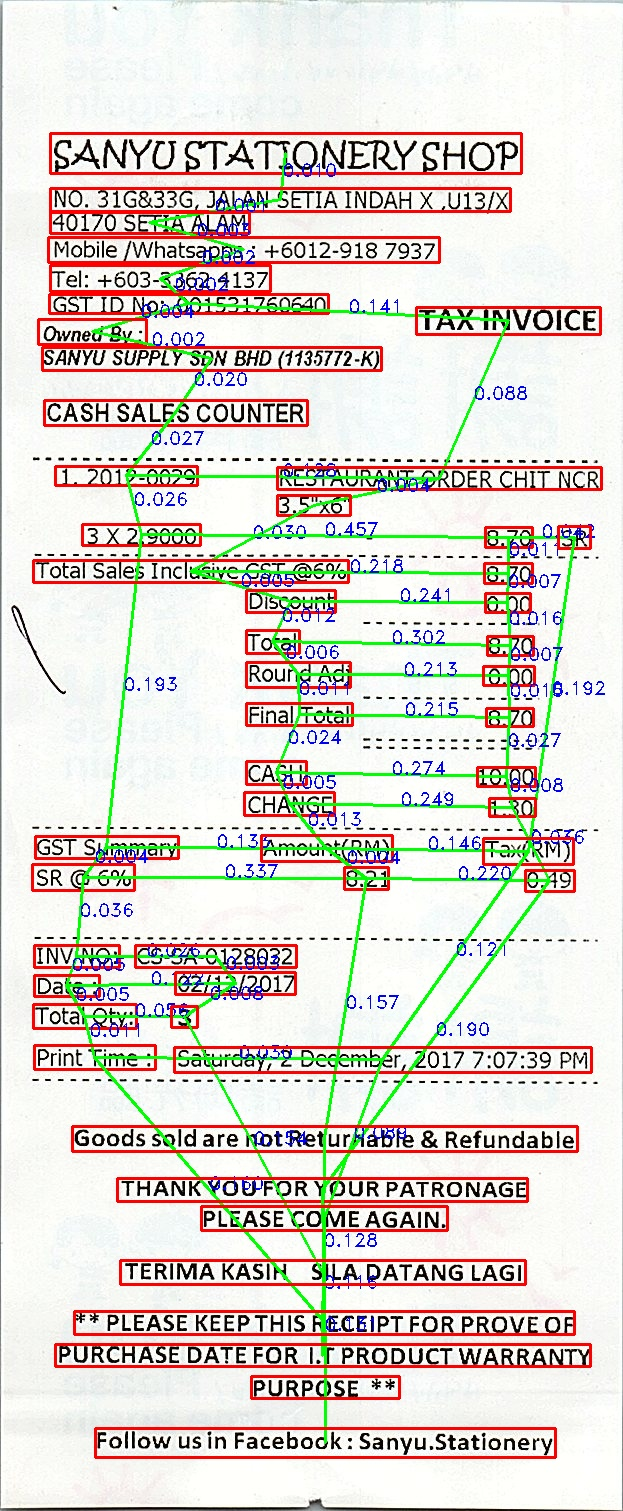
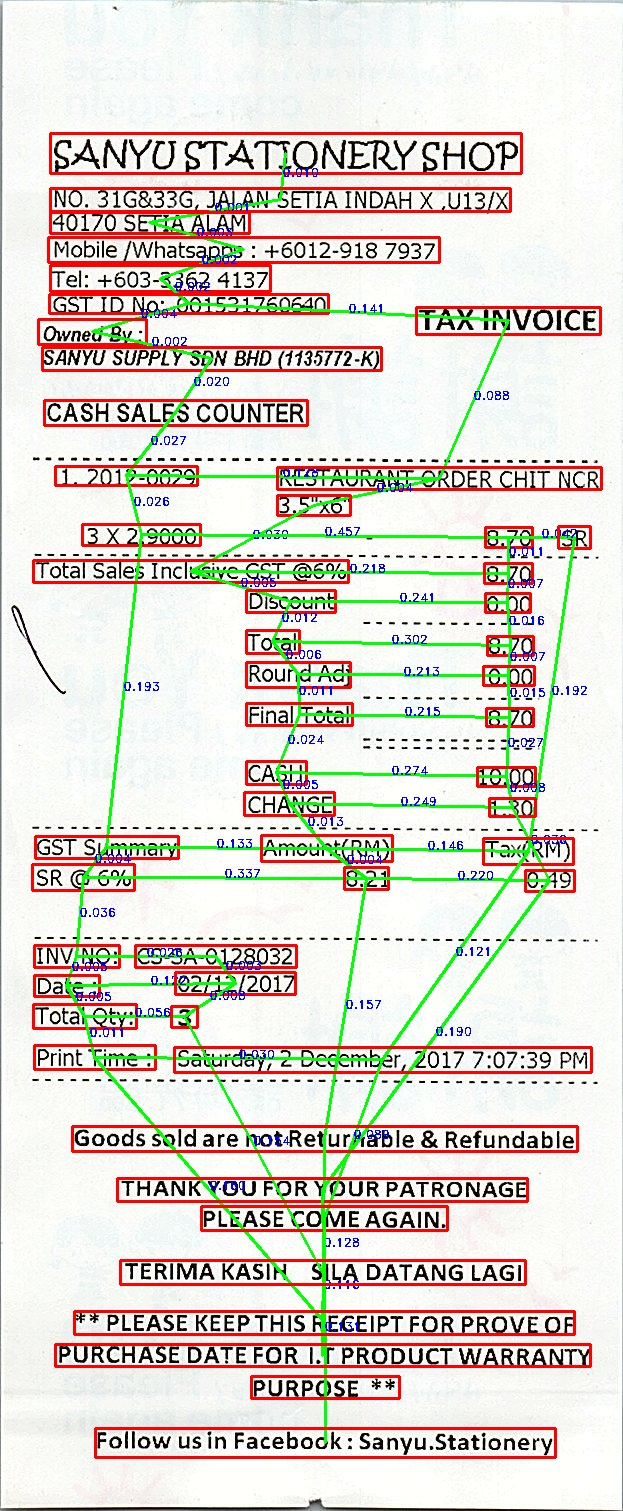
updates

diff --git a/src/pipeline/testing_ChebConv.py b/src/pipeline/testing_ChebConv.py
@@ -21,7 +21,12 @@ data_path = "../../data/processed/" + "data2.dataset"
 #data_path = "../../data/processed/" + "data_withtexts.dataset"
 data = torch.load(data_path)
 
-print(data.y[data.train_mask])
+print(f'training nodes: {data.y[data.train_mask].shape}')
+print(f'validation nodes: {data.y[data.val_mask].shape}')
+print(f'testing nodes: {data.y[data.test_mask].shape}')
+
+
+
 print(data.y.unique())
 
 print(data.y.shape)
@@ -43,10 +48,12 @@ parser = argparse.ArgumentParser()
 
 parser.add_argument('--model', type=str, default ='ChebConv',
                     help = 'GCN or ChebConv model')
-parser.add_argument('--epochs', type=int, default=500,
+parser.add_argument('--epochs', type=int, default=1000,
                     help='Number of epochs to train.')
 parser.add_argument('--lr', type=float, default=0.01,
                     help='Initial learning rate.')
+parser.add_argument('--verbose', type=int, default=0,
+                    help='print details of the model')
 parser.add_argument('--weight_decay', type=float, default=5e-4,
                     help='Weight decay (L2 loss on parameters).')
 parser.add_argument('--dropout', type=float, default=0.5,
@@ -123,8 +130,8 @@ def train():
     #FIX WEIGHTS
     weights = torch.FloatTensor(class_weights)
     
-    #print(weights)
-    #weights = torch.tensor([3.3419, 9.3718, 8.9813, 8.9526, 0.1905,8.1577])
+
+    #weights = torch.tensor([8.1577,3.3419, 9.3718, 8.9813, 8.9526, 0.1905])
     
     loss = F.nll_loss(model()[data.train_mask], data.y[data.train_mask]-1, weight=weights)
     loss.backward()
@@ -156,27 +163,25 @@ def test():
 
 
 
-
-        r"printing predicted classes and number of elements for preds"
-        print('pred')
-        unique_elements, counts_elements = np.unique(pred, return_counts=True)
-        print(np.asarray((unique_elements, counts_elements)))
-
-
-        r"printing predicted classes and number of elements for actual"
-        print('actual')
-        unique_elements, counts_elements = np.unique((data.y[mask]-1), return_counts=True)
-        print(np.asarray((unique_elements, counts_elements)))
-
-        nb_classes = 6
+        if args.verbose == 1:
+            r"printing predicted classes and number of elements for preds"
+            print('pred')
+            unique_elements, counts_elements = np.unique(pred, return_counts=True)
+            print(np.asarray((unique_elements, counts_elements)))
 
 
-        conf_mat=confusion_matrix((data.y[mask]-1).numpy(), pred.numpy())
-      
+            r"printing predicted classes and number of elements for actual"
+            print('actual')
+            unique_elements, counts_elements = np.unique((data.y[mask]-1), return_counts=True)
+            print(np.asarray((unique_elements, counts_elements)))
 
-    # Per-class accuracy
-        class_accuracy=100*conf_mat.diagonal()/conf_mat.sum(1)
-        print(class_accuracy)
+
+
+            conf_mat=confusion_matrix((data.y[mask]-1).numpy(), pred.numpy())
+        # Per-class accuracy
+            print(f'confusion_matrix   is   {conf_mat}')
+            class_accuracy=100*conf_mat.diagonal()/conf_mat.sum(1)
+            print(class_accuracy)
 
        # print(acc)
         accs.append(acc)

diff --git a/src/pipeline/tess_ocr.py b/src/pipeline/tess_ocr.py
@@ -9,7 +9,13 @@ import pandas as pd
 
 image = "../../data/raw/img/339.jpg"
 #image = "/Users/udipbohara/Desktop/Datascience_projects/info_extraction_receipts/src/pipeline/test_custom.jpg"
+
+
+output = "../../figures/tess_339.jpg"
+
+
 img = cv2.imread(image)
+
 
 
 custom_config = r'--oem 3 --psm 6'
@@ -42,9 +48,11 @@ for i in range(n_boxes):
         (x, y, w, h) = (d['left'][i], d['top'][i], d['width'][i], d['height'][i])
         #print(x,y,w,h)
         text = d['text'][i]
-        img = cv2.rectangle(img, (x, y), (x + w, y + h), (0, 0, 255), 2)
+      
+        img = cv2.rectangle(img, (x, y), (x + w, y + h), (255, 0, 0), 1)
         img = cv2.putText(img, text, (x, y - 1),
-                        cv2.FONT_HERSHEY_DUPLEX, 0.4, (0, 0, 255), 1)
+                cv2.FONT_HERSHEY_DUPLEX, 0.6, (0, 0, 255), 1)
+
 
         img_height, img_width =  img.shape[0], img.shape[1]
         
@@ -64,8 +72,10 @@ df = df[df.Object != " "]
 
 print(df)
 
-# df.to_csv('test550_scratchpart2' + '.csv' ,index = False)
-# cv2.imwrite('test550_scratchpart2' + '.jpg', img)
+#df.to_csv('test550_scratchpart2' + '.csv' ,index = False)
+cv2.imwrite('test550_scratchpart2' + '.jpg', img)
+
+cv2.imwrite(output, img)
 
 # df.to_csv('test_custom' + '.csv' ,index = False)
 # cv2.imwrite('test_custom' + '.jpg', img)

diff --git a/src/pipeline/make_data.py b/src/pipeline/make_data.py
@@ -82,11 +82,9 @@ def get_data():
         df = connect.relative_distance() 
         individual_data = from_networkx(G)
 
-        feature_cols = ['rd_b','line_number', 'rd_r', 'rd_t', 'rd_l',\
+        feature_cols = ['rd_b', 'rd_r', 'rd_t', 'rd_l','line_number',\
                 'n_upper', 'n_alpha', 'n_spaces', 'n_numeric','n_special']
-                
-        feature_cols = ['xmin', 'ymin', 'xmax', 'ymax','line_number','rd_b', 'rd_r', 'rd_t', 'rd_l',\
-                        'n_upper', 'n_alpha', 'n_spaces', 'n_numeric','n_special']
+
 
         features = torch.tensor(df[feature_cols].values.astype(np.float32))
 

diff --git a/src/pipeline/graph.py b/src/pipeline/graph.py
@@ -534,11 +534,11 @@ if __name__ == "__main__":
     # print(result)
     # print(df)
     #file = '525'
-    file = '012'
+    file = '339'
     connect = Grapher(file)
-    G,result, df = connect.graph_formation()#export_graph=True)
+    G,result, df = connect.graph_formation(export_graph=True)
     print(df)
-    df = connect.relative_distance()#export_document_graph = True)
+    df = connect.relative_distance(export_document_graph = True)
     print(df)
 
 

diff --git a/src/pipeline/visualize.py b/src/pipeline/visualize.py
@@ -66,8 +66,10 @@ def visualize_labels(img_name, save_img = False):
 
 
 if __name__ == "__main__":
-    visualize_labels('009', save_img = True)
-    visualize_textboxes('009', save_img = True)
-  
+    visualize_labels('619', save_img = True)
+    #visualize_textboxes('619', save_img = True)
+    visualize_labels('580', save_img = True)
+    visualize_labels('395', save_img = True)
+    #visualize_textboxes('580', save_img = True)  
 
     

diff --git a/README.md b/README.md
@@ -18,6 +18,14 @@ In order to be able to do this, here are the basic steps:
 - Optical character recognition (OCR) engine such as [Tesseract](https://tesseract-ocr.github.io) or [Google Vision](https://cloud.google.com/vision/docs/ocr).
 - Extract relevant/salient information in a digestable format such as json for storage/analytics.
 
+<p align="center">
+<img src="figures/figure_0.0.png" height=400> 
+</p>
+
+
+
+
+
 The main issue/concern with this approach is that invoices do not follow a universal pattern. 
 
 
@@ -26,14 +34,14 @@ The main issue/concern with this approach is that invoices do not follow a unive
 <img src="figures/figure_1.png"> 
 </p>
 
-__Figure 1__: _Different patterns of semi structured documents make it difficult to generalize a pattern for Information Extraction(IE)_
+__Figure 1__: _Different patterns of semi structured documents make it difficult to generalize an algorithm for Information Extraction(IE)_
 
 &ensp;&ensp;&ensp;&ensp;&ensp;&ensp;&ensp;&ensp;&ensp;&ensp; __Figure 1__: _Different patterns of semi structured documents make it difficult to generalize a pattern for Information Extraction(IE)_
 
 Due to the varied nature of invoices, it is difficult to have a general OCR script that recognizes each element of the dataset. 
 
 Solution:
-Graph Convolutional Networks (GCNs) provide a platform for recognizing different patterns associated with different invoices/semi-structured documents. This method can be used in __Transductive learning/semi-supervised learning__. This can be used in auto-labeling/classification of desired classes(in our case: company, address, invoice, date and total) by learning graph patterns. 
+Semi-Supervised Graph Convolutional Networks (GCNs) provide a platform for recognizing different patterns associated with different invoices/semi-structured documents. This method can be used in __Transductive learning/semi-supervised learning__. This can be used in auto-labeling/classification of desired classes(in our case: company, address, invoice, date and total) by learning graph patterns. 
 [An Invoice Reading System Using a Graph Convolutional Network](https://link.springer.com/chapter/10.1007/978-3-030-21074-8_12) provides for the conceptual background for this project. Top level concepts are derived from the paper and I would like to thank the authors for their contribution. 
 
 
@@ -122,14 +130,6 @@ __Consider avoiding Chebyshev to avoid overfitting.__
 __ChebNets and GCNs are very similar, but their largest difference is in their choices for value K in eqn. 1. In a GCN, the layer wise convolution is limited to K = 1__
 
 
-<p align="left">
-<img src="figures/figure_3.png">
-</p>
-
-<p align="center">
-<i><b>Abbreviated Steps of GCN:</b> https://github.com/tkipf/gcn</i>
-</p>
-
 # Steps of the Project:
 - Collect raw data of invoices (raw images)
 - Annonate/label all the images with relevant labels
@@ -192,6 +192,7 @@ The graph modeling process includes the following steps:
         - Repeat steps from 2.1 to 2.3 similarly for retrieving nearest neighbour words in vertical direction by taking horizontal projection, calculating RD_t and RD_b and choosing words having higher left co-ordinate incase of ambiguity
         - Draw edges between word and its 4 nearest neighbours if they are available.
 
+The nodes represet each word/object and edges represent the connection with other words based on the above parameters.
 _This ensures that words are read from top left corner of the image first, 
 going line by line from left to right and at last the final bottom right word of the page is read._
 
@@ -201,6 +202,12 @@ going line by line from left to right and at last the final bottom right word of
 <img src="figures/figure_4.png" width = 1000>
 </p>
 
+
+These set of rules are scalable and work for more complex structures:
+
+<p align="left">
+<img src="figures/figure_7.png" width = 1000>
+</p>
 
 ### 4) Features Engineering
 Node features consisted of the following:
@@ -217,9 +224,12 @@ The train, validation and test sets included:
 
 - Due to the imbalanced dataset, class weights were added to ensure proper learning of weights during backpropagation of the loss. 
 - The negative log likelihood loss [NLLLoss function](https://pytorch.org/docs/master/generated/torch.nn.NLLLoss.html) was used with the following weights:
-```python
+```
 {'company': 8.1577, 'address':3.3419, 'invoice':9.3718, 'date':8.9813, 'total':8.9526, 'undefined':0.1905]
 ```
+
+ 3 hidden GCN layers were stacked, the first layer learns 16 different filters (16 different graph connection patterns), and the second layer learn 32 filters, learning to recognize 32 combinations of the 16 patterns learned in layer 1. This hierarchical compositionality property, also found in CNN’s, gives the model the power to generalize to unseen layouts.
+
 
 Two differnt Graph Convolutional Models were used. Graph Convolutional Network and  [Chebyshev Convolutional Network](https://arxiv.org/abs/1606.09375)
 The kernel equals the sum of all Chebyshev polynomial kernels applied to the diagonal matrix of scaled Laplacian eigenvalues for each order of k up to K-1.
@@ -228,24 +238,70 @@ First order simply means that the metric used to determine the similarity betwee
 
 Third order of polynomials were used.
 
-
-
 __ChebNets and GCNs are very similar, but their largest difference is in their choices for value K in eqn. 1. In a GCN, the layer wise convolution is limited to K = 1__
 
 
 
+All the graphs were combined to form an unconnected adjacency matrix that consisted of 33626 nodes.<br>
+training nodes: 26947, valdiation nodes: 3221, testing nodes: 3458
 
-| Company  | Address | Invoice | Date | Total | Undefined |
-| ------------- | ------------- | ------------- | ------------- | ------------- | ------------- |
-| Content Cell  | Content Cell  | Content Cell  | Content Cell  | Content Cell  | Content Cell  |
-| Content Cell  | Content Cell  | Content Cell  | Content Cell  | Content Cell  | Content Cell  |
+<p align="left">
+<img src="figures/figure_3.png">
+</p>
+
+<p align="center">
+<i><b>Abbreviated Steps of GCN:</b> https://github.com/tkipf/gcn</i>
+</p>
 
 
+
+
+The model was trained with the following parameters:
+```
+learning rate : 0.01
+L2 regularization : 5e-10
+hidden layers : 4 
+early stopping : 50 epochs. #(if the validation loss did not decrease for 50 epochs)
+
+The best test results were: 
+epoch: 981, train_loss:0.1455, val_loss:0.7506, Train: 0.9324, Val: 0.8600, Test: 0.8713
+
+```
+ 
+
+
+Classes Accuracy:
+```
+Company : 98.5
+Address : 86.5 
+Invoic  :54.8
+Date : 53.9 
+Total : 34.9
+Undefined : 86.1]
+
+```
+
+### Confusion Matrix for testing in epoch 521:
+
+Epoch: 521, train_loss:0.1637, val_loss:0.7775, Train: 0.8614, Val: 0.7970, Test: 0.8039
+
+| Classes | Company  | Address | Invoice | Date | Total | Undefined |
+| --------| ------------- | ------------- | ------------- | ------------- | ------------- | ------------- |
+| Company | 66  | 1  | 0  | 0  | 0 | 0  |
+| Address | 6 | 146  | 1 | 1 | 0  | 10  |
+| Invoice | 0  | 2  | 37  | 6  | 1 | 16 |
+| Date | 0  | 1 | 5  | 40 | 1  | 16  |
+| Total | 0  | 0  | 1 | 0  | 21  | 41  |
+| Undefined | 16  | 42  | 99 | 142 | 270  | 2470  |
 
 ## Conclusion:
+
+Issues with total. obscure.
+
+Using a word level approach would lead to a better performance as it would negate the inconsistencies of the bounding boxes  provided in the dataset
 for a better one, consider each single word from Tesseract and label them which would lead to a better model.
 
-
+<img src="figures/figure_8.png">
 
 Project Organization
 ------------
